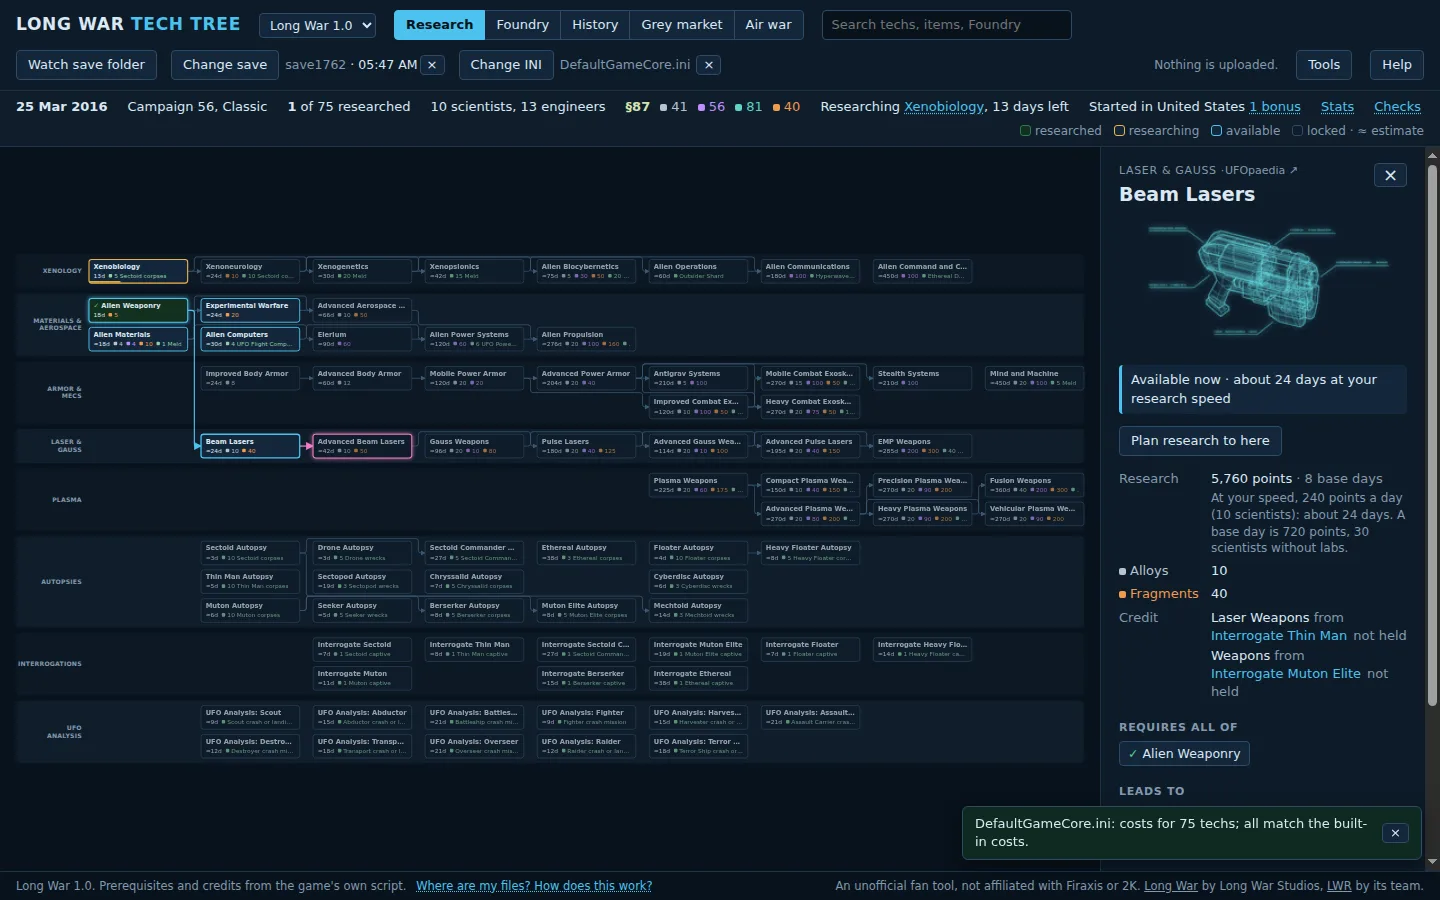
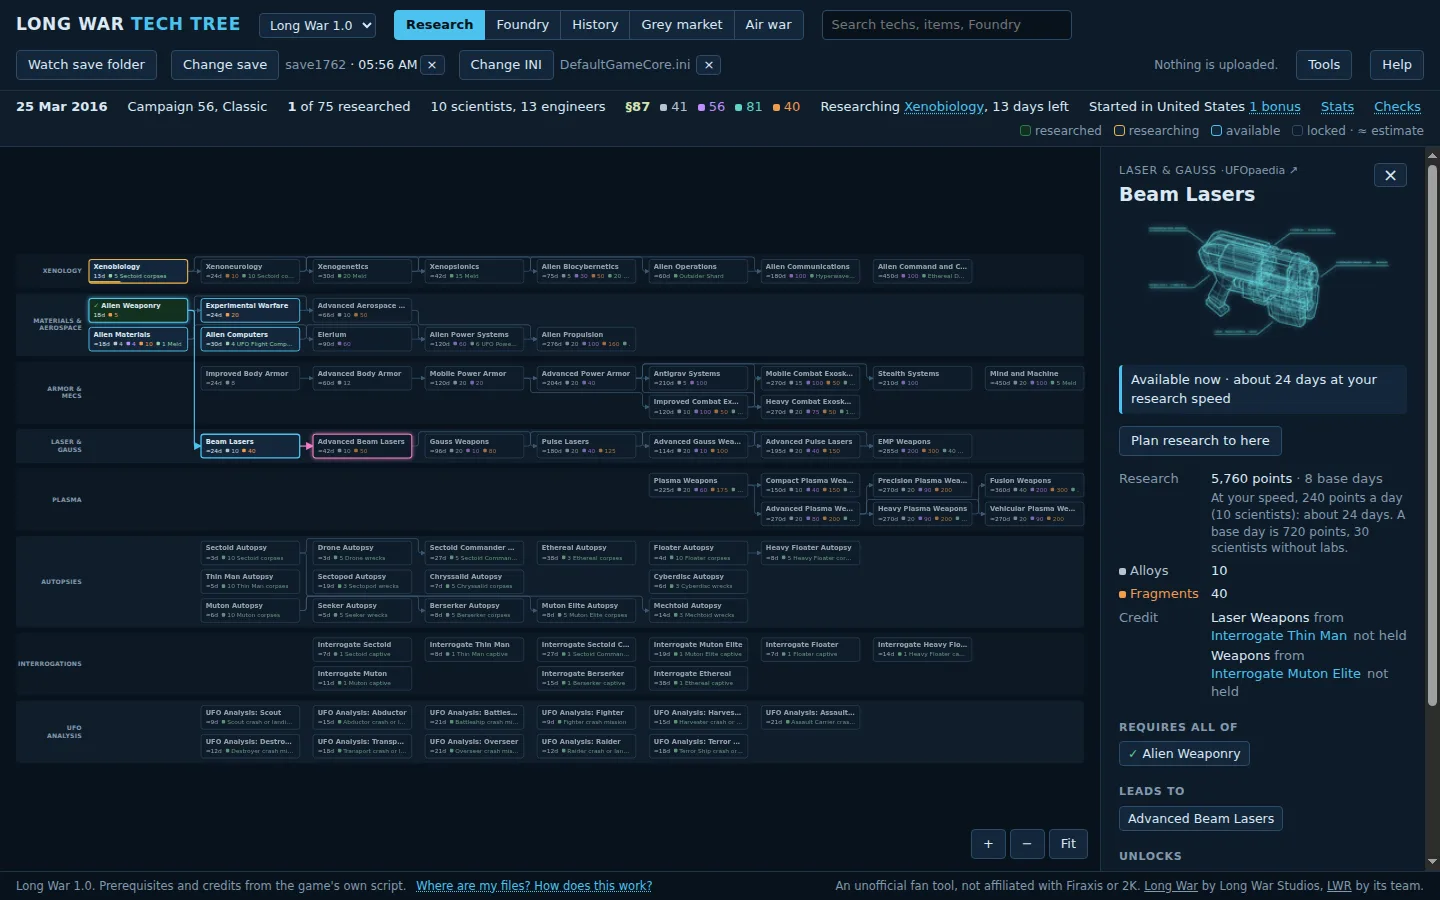
Site screenshots without the passing notices

Changed region(s): [[0.6562, 0.9022, 0.9375, 0.9644]]

diff --git a/e2e-desktop/site-shots.spec.ts b/e2e-desktop/site-shots.spec.ts
@@ -44,6 +44,8 @@ test('screenshots for the website', async () => {
   await page.setViewportSize({ width: 1440, height: 900 })
   await page.evaluate(() => localStorage.setItem('lwtree.helpSeen.v1', '1'))
   await page.reload()
+  // Notices come and go; not in the pictures.
+  await page.addStyleTag({ content: '.toast { display: none !important }' })
 
   // The research tree with the game's own pictures, a campaign loaded.
   await page
